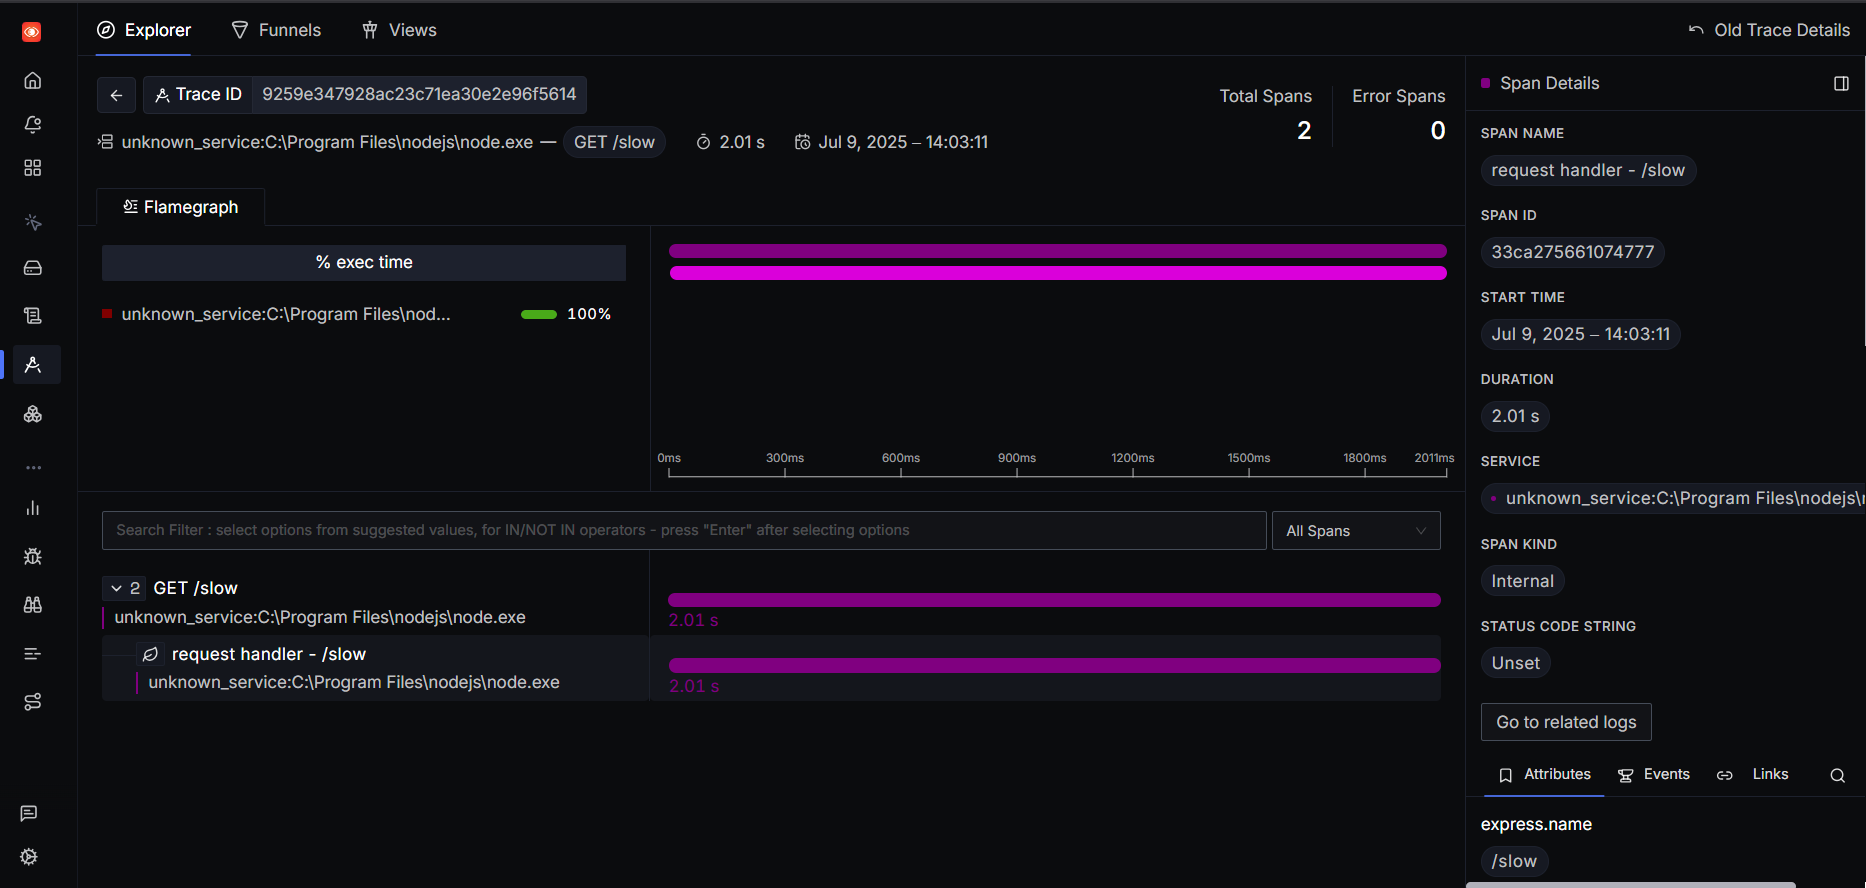
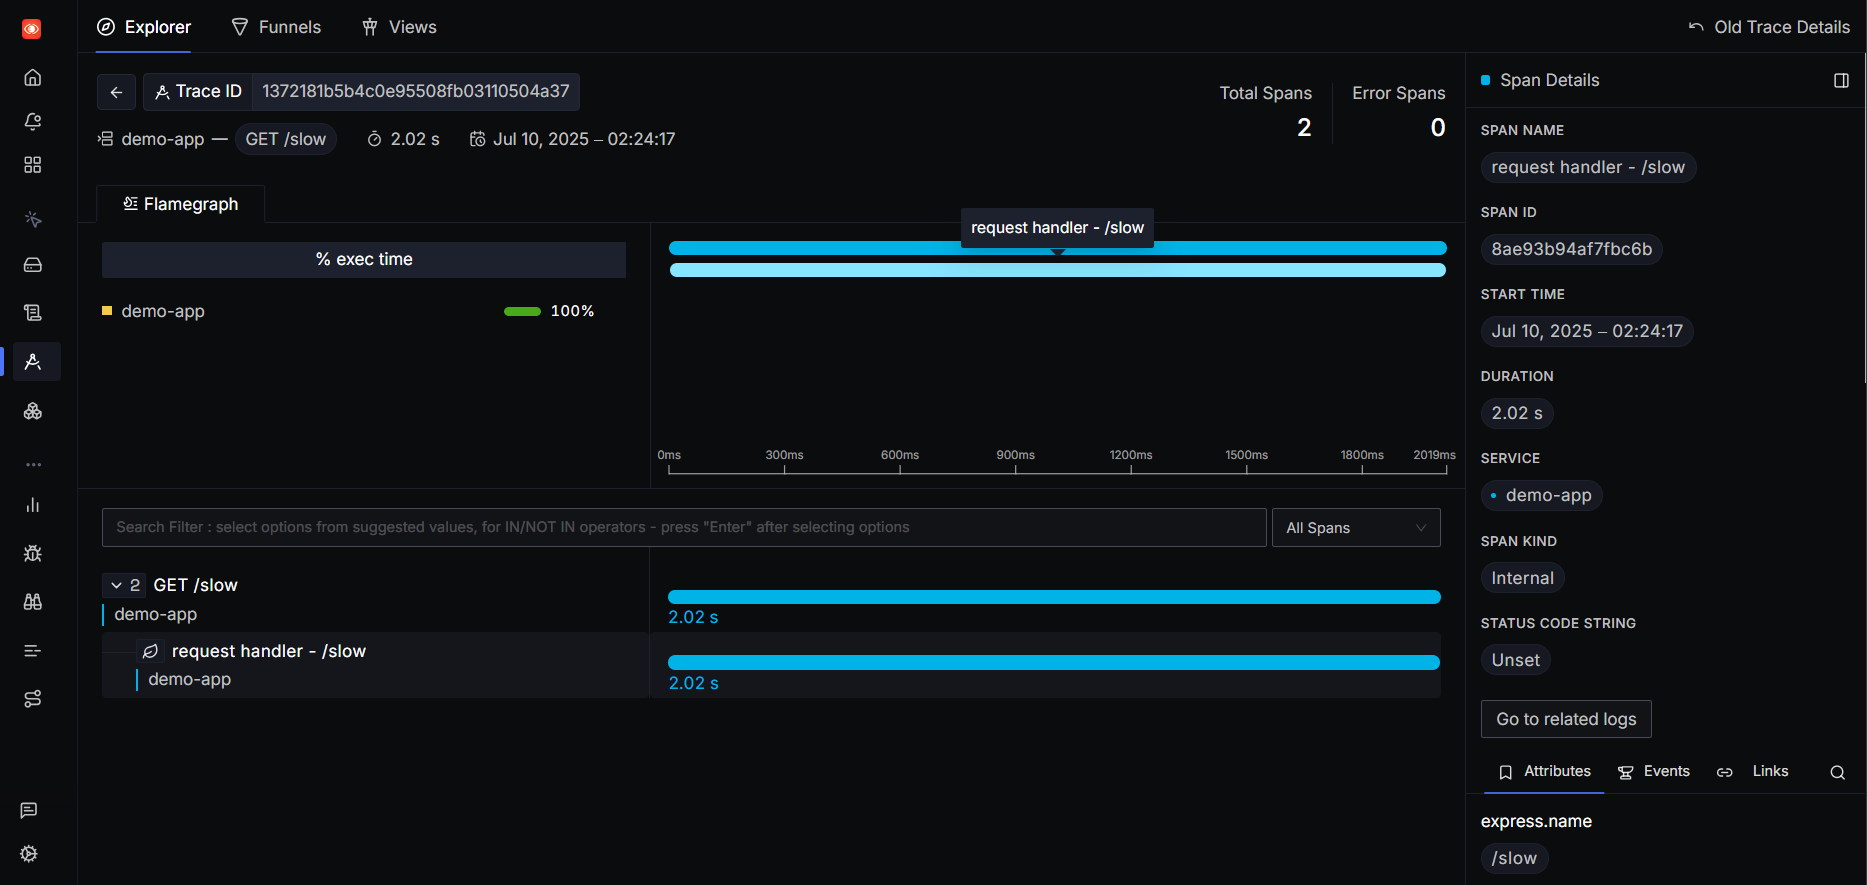
[Update] Added Metrics

diff --git a/demo-app/instrumentation.js b/demo-app/instrumentation.js
@@ -5,6 +5,8 @@ const { getNodeAutoInstrumentations } = require('@opentelemetry/auto-instrumenta
 const { OTLPTraceExporter } = require('@opentelemetry/exporter-trace-otlp-http');
 const { resources } = require('@opentelemetry/sdk-node');
 const { SEMRESATTRS_SERVICE_NAME } = require('@opentelemetry/semantic-conventions');
+const { OTLPMetricExporter } = require('@opentelemetry/exporter-metrics-otlp-http');
+const { PeriodicExportingMetricReader } = require('@opentelemetry/sdk-metrics');
 
 const resource = resources.resourceFromAttributes({
   [SEMRESATTRS_SERVICE_NAME]: 'demo-app',
@@ -16,13 +18,24 @@ const traceExporter = new OTLPTraceExporter({
   url: 'http://localhost:4318/v1/traces',
 });
 
+const metricExporter = new OTLPMetricExporter({
+  url: 'http://localhost:4318/v1/metrics',
+});
+
+// Create a metric reader that exports metrics every 5 seconds
+const metricReader = new PeriodicExportingMetricReader({
+  exporter: metricExporter,
+  exportIntervalMillis: 5000, // Export every 5 seconds
+});
+
 const sdk = new NodeSDK({
   resource,
   traceExporter,
+  metricReader,
   instrumentations: [getNodeAutoInstrumentations()],
 });
 
 // Initialize the SDK before the app starts
-sdk.start()
+sdk.start();
 
-console.log('Tracing initialized');
+console.log('Tracing and Metrics initialized');

diff --git a/demo-app/index.js b/demo-app/index.js
@@ -1,13 +1,33 @@
-require('./tracing');
+require('./instrumentation');
 
 const express = require('express');
+const { metrics } = require('@opentelemetry/api');
+
 const app = express();
 
+// --- Metrics Setup ---
+// Use the SDK's global meter instead of creating a separate MeterProvider
+const meter = metrics.getMeter('demo-app', '1.0.0');
+
+// Create a counter metric for the /slow route
+const slowRequestCounter = meter.createCounter('slow_requests_count', {
+  description: 'Counts requests to the /slow endpoint',
+});
+
+// Create a counter for the / route too (optional)
+const rootRequestCounter = meter.createCounter('root_requests_count', {
+  description: 'Counts requests to the root (/) endpoint',
+});
+
+// --- Routes ---
+
 app.get('/', (req, res) => {
+  rootRequestCounter.add(1);
   res.send('Hello from the observable world!');
 });
 
 app.get('/slow', (req, res) => {
+  slowRequestCounter.add(1);
   setTimeout(() => {
     res.send('This was a slow request!');
   }, 2000);

diff --git a/demo-app/README.md b/demo-app/README.md
@@ -1,11 +1,45 @@
-## Initial Setup
-- npm init -y
-- npm install express
-- node index.js
+# Demo App - OpenTelemetry with SigNoz
 
-- http://localhost:3000
-- http://localhost:3000/slow
+A Node.js Express application demonstrating OpenTelemetry integration with SigNoz for observability (tracing and metrics).
 
-## Generate Traffic
-- curl http://localhost:3000/
-- curl http://localhost:3000/slow
+## Features
+- **Tracing**: Automatic HTTP request tracing
+- **Custom Metrics**: 
+  - `root_requests_count` - Counts requests to `/` endpoint
+  - `slow_requests_count` - Counts requests to `/slow` endpoint
+- **Two Endpoints**:
+  - `GET /` - Fast response
+  - `GET /slow` - 2-second delayed response
+
+## Prerequisites
+- Node.js installed
+- SigNoz running on `http://localhost:4318`
+
+## Setup
+```bash
+npm install
+npm start
+```
+
+## Testing Endpoints
+```bash
+# Fast endpoint
+curl http://localhost:3000/
+
+# Slow endpoint  
+curl http://localhost:3000/slow
+```
+
+## Generate Traffic for Testing
+```bash
+# Multiple requests to root
+for ($i=1; $i -le 10; $i++) { curl http://localhost:3000/; Start-Sleep 1 }
+
+# Multiple requests to slow endpoint
+for ($i=1; $i -le 3; $i++) { curl http://localhost:3000/slow; Start-Sleep 3 }
+```
+
+## Observability
+- **Traces**: Available in SigNoz traces dashboard
+- **Metrics**: Custom counters exported every 5 seconds to SigNoz
+- **Service Name**: `demo-app`
